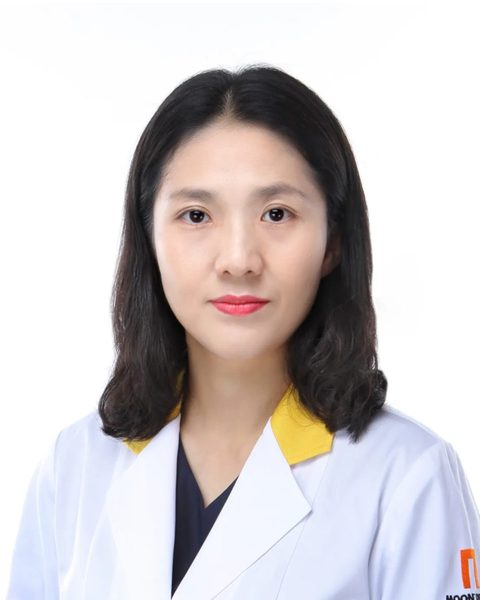
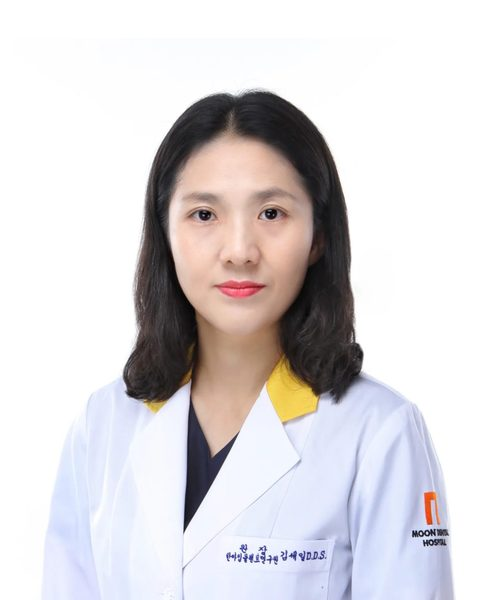
v5.1.0 · /심미치료/ 내용을 심미치료센터로 합침 (원장 지시) · 의료진 사진 얼굴 위치로 맞춤
- template-parts/section-esthetic-more.php: 예전 /심미치료/ 본문 · 고민 · 추천 대상 · FAQ 를 심미치료센터 안에
- /심미치료/ (언어 접두어 포함) → /심미치료센터/ 301 · Yoast 사이트맵에서 제외 · 링크 정리
- 의료진 v5 사진: 얼굴 인식(눈 · 입 위치)으로 크기 · 높이 통일, 의료진 상세 페이지에도 적용, 주소에 버전

diff --git a/wp-content/themes/moondental-child/template-parts/section-esthetic-more.php b/wp-content/themes/moondental-child/template-parts/section-esthetic-more.php
@@ -1,0 +1,129 @@
+<?php
+/**
+ * v5.1 · 원장 지시 · 예전 /심미치료/ 페이지 내용을 심미치료센터 안으로 (본문 · 고민 · 추천 대상 · FAQ)
+ *  page-service.php 의 같은 블록을 slug '심미치료' 로 그린다. /심미치료/ 는 /심미치료센터/ 로 301.
+ *
+ * @package moondental-child
+ */
+$slug        = '심미치료';
+$md_impl_own = false;
+$md_old_page = get_page_by_path( '심미치료' );
+$md_old_body = $md_old_page ? trim( (string) $md_old_page->post_content ) : '';
+?>
+<section class="md-section" id="esthetic-more" aria-label="심미 · 보철 진료 자세히">
+	<div class="md-container md-container--narrow">
+		<header class="md-section-head">
+			<span class="md-section-head__eyebrow">MORE</span>
+			<h2 class="md-section-head__title">심미 · 보철 진료 자세히</h2>
+		</header>
+		<article class="md-page-content">
+			<?php
+			if ( $md_old_body ) {
+				echo apply_filters( 'the_content', $md_old_body );
+			} elseif ( function_exists( 'moondental_default_service_content' ) ) {
+				echo moondental_default_service_content( $slug ); // 안전한 정적 HTML
+			}
+			?>
+		</article>
+	</div>
+</section>
+
+<?php
+/* === 환자 고민 / 솔루션 6쌍 — bdbddc.com 패턴 참고 ===
+ * v3.47 · 임플란트-센터는 제외. 위 "다른 병원에서 어렵다고 하셨나요" 6케이스와
+ *   뼈 부족·전신질환·흔들림 3개가 겹쳐 같은 말을 두 번 하게 된다.
+ *   해당 페이지에서는 그쪽 한 블록으로 합쳤다. */
+if ( function_exists( 'moondental_service_pain_points' ) && ! $md_impl_own ) {
+	$pp_map = moondental_service_pain_points();
+	if ( isset( $pp_map[ $slug ] ) && ! empty( $pp_map[ $slug ] ) ) :
+?>
+<section class="md-section md-section--surface" aria-label="환자분 고민·솔루션">
+	<div class="md-container">
+		<header class="md-section-head">
+			<span class="md-section-head__eyebrow"><?php echo esc_html( function_exists( 'md_content' ) ? md_content( 'service_pain_eyebrow', '환자분의 마음' ) : '환자분의 마음' ); ?></span>
+			<h2 class="md-section-head__title"><?php echo esc_html( function_exists( 'md_content' ) ? md_content( 'service_pain_title', '혹시 이런 고민 하고 계시죠?' ) : '혹시 이런 고민 하고 계시죠?' ); ?></h2>
+			<p class="md-section-head__lead">
+				<?php echo nl2br( esc_html( function_exists( 'md_content' ) ? md_content( 'service_pain_lead', '많은 환자분이 같은 걱정을 안고 오십니다. 문치과병원이 어떻게 답해드리는지 확인하세요.' ) : '많은 환자분이 같은 걱정을 안고 오십니다.' ) ); ?>
+			</p>
+		</header>
+		<?php
+		$pain_tag_q = function_exists( 'md_content' ) ? md_content( 'service_pain_tag_q', '고민' ) : '고민';
+		$pain_tag_a = function_exists( 'md_content' ) ? md_content( 'service_pain_tag_a', '문치과의 답' ) : '문치과의 답';
+		?>
+		<ul class="md-pain">
+			<?php foreach ( $pp_map[ $slug ] as $pp ) : ?>
+				<li class="md-pain__pair">
+					<div class="md-pain__concern">
+						<span class="md-pain__tag"><?php echo esc_html( $pain_tag_q ); ?></span>
+						<p>"<?php echo esc_html( $pp['concern'] ); ?>"</p>
+					</div>
+					<div class="md-pain__solution">
+						<span class="md-pain__tag md-pain__tag--alt"><?php echo esc_html( $pain_tag_a ); ?></span>
+						<p><?php echo esc_html( $pp['solution'] ); ?></p>
+					</div>
+				</li>
+			<?php endforeach; ?>
+		</ul>
+	</div>
+</section>
+<?php endif; }
+?>
+
+<?php /* 강점 카드 섹션은 /기술력-시설/ 페이지로 이동됨 (v3.12.0) */ ?>
+
+<?php
+/* === 이런 분께 추천합니다 === */
+if ( function_exists( 'moondental_service_ideal_candidates' ) ) {
+	$cand_map = moondental_service_ideal_candidates();
+	if ( isset( $cand_map[ $slug ] ) && ! empty( $cand_map[ $slug ] ) ) :
+?>
+<section class="md-section md-section--surface md-section--sm" aria-label="추천 대상">
+	<div class="md-container md-container--narrow">
+		<div class="md-ideal">
+			<header class="md-ideal__head">
+				<span class="md-ideal__chip"><?php echo esc_html( function_exists( 'md_content' ) ? md_content( 'service_ideal_chip', 'For You' ) : 'For You' ); ?></span>
+				<h2 class="md-ideal__title"><?php echo esc_html( function_exists( 'md_content' ) ? md_content( 'service_ideal_title', '이런 분께 추천합니다' ) : '이런 분께 추천합니다' ); ?></h2>
+				<p class="md-ideal__lead">
+					<?php echo nl2br( esc_html( function_exists( 'md_content' ) ? md_content( 'service_ideal_lead', '해당하시는 항목이 있으시면 부담 없이 상담받으세요.' ) : '해당하시는 항목이 있으시면 부담 없이 상담받으세요.' ) ); ?>
+				</p>
+			</header>
+			<ul class="md-ideal__list">
+				<?php foreach ( $cand_map[ $slug ] as $item ) : ?>
+					<li>
+						<span class="md-ideal__check" aria-hidden="true">✓</span>
+						<span><?php echo esc_html( $item ); ?></span>
+					</li>
+				<?php endforeach; ?>
+			</ul>
+			<?php /* v3.37.2 · 중간 CTA 제거 (하단 CTA 배너에 이미 있음) */ ?>
+		</div>
+	</div>
+</section>
+<?php endif; }
+?>
+
+
+<?php
+/* 해당 service slug의 자동 FAQ 출력 */
+if ( function_exists( 'moondental_get_faqs_by_service' ) ) {
+	$faqs_map = moondental_get_faqs_by_service();
+	if ( isset( $faqs_map[ $slug ] ) && ! empty( $faqs_map[ $slug ] ) ) :
+?>
+<section class="md-section md-section--sm" aria-label="자주 묻는 질문">
+	<div class="md-container md-container--narrow">
+		<header class="md-section-head">
+			<span class="md-section-head__eyebrow">FAQ</span>
+			<h2 class="md-section-head__title"><?php echo esc_html( md_content( 'svc_faq_title', '자주 묻는 질문' ) ); ?></h2>
+		</header>
+		<div class="md-faq">
+			<?php foreach ( $faqs_map[ $slug ] as $i => $item ) : ?>
+				<details class="md-faq__item"<?php echo $i === 0 ? ' open' : ''; ?>>
+					<summary><?php echo esc_html( $item['q'] ); ?></summary>
+					<p><?php echo wp_kses_post( md_autolink_addresses( $item['a'] ) ); ?></p>
+				</details>
+			<?php endforeach; ?>
+		</div>
+	</div>
+</section>
+<?php endif; }
+?>

diff --git a/wp-content/themes/moondental-child/inc/rename-esthetic.php b/wp-content/themes/moondental-child/inc/rename-esthetic.php
@@ -14,6 +14,12 @@ add_action( 'init', function () {
 	if ( is_admin() || empty( $_SERVER['REQUEST_URI'] ) ) return;
 	$uri  = (string) $_SERVER['REQUEST_URI'];
 	$path = rawurldecode( (string) parse_url( $uri, PHP_URL_PATH ) );
+	/* v5.1 · 예전 /심미치료/ 페이지도 심미치료센터로 합침 */
+	if ( preg_match( '#^/((?:en|ja|zh|vi|ru|mn)/)?심미치료/?$#u', $path, $mm ) ) {
+		$q = parse_url( $uri, PHP_URL_QUERY );
+		wp_redirect( home_url( '/' . ( $mm[1] ?? '' ) . rawurlencode( '심미치료센터' ) . '/' ) . ( $q ? '?' . $q : '' ), 301 );
+		exit;
+	}
 	if ( strpos( $path, '스마일디자인센터' ) === false ) return;
 	if ( ! preg_match( '#^/((?:en|ja|zh|vi|ru|mn)/)?스마일디자인센터(/.*)?$#u', $path, $m ) ) return;
 	$rest = ( isset( $m[2] ) && $m[2] !== '' ) ? $m[2] : '/';
@@ -95,3 +101,10 @@ add_action( 'init', function () {
 	}
 	update_option( 'md_rename_esthetic_v424', 'done' );
 }, 6 );
+
+/* v5.1 · 합친 /심미치료/ 페이지는 사이트맵에서 뺀다 (주소는 심미치료센터로 301) */
+add_filter( 'wpseo_exclude_from_sitemap_by_post_ids', function ( $ids ) {
+	$p = get_page_by_path( '심미치료' );
+	if ( $p ) $ids[] = (int) $p->ID;
+	return $ids;
+} );

diff --git a/wp-content/themes/moondental-child/page-templates/page-doctor-single.php b/wp-content/themes/moondental-child/page-templates/page-doctor-single.php
@@ -88,6 +88,10 @@ $photo_style = sprintf(
 	esc_attr( number_format( $photo_ty,   1 ) ),
 	esc_attr( number_format( $photo_zoom, 2 ) )
 );
+if ( function_exists( 'md_v5' ) && md_v5() && false !== strpos( md_v5_doctor_photo( $doctor['photo'] ?? '' ), '/doctors/v5/' ) ) { /* v5.0 · 얼굴 크기 맞춘 사진 */
+	$photo_url   = md_v5_doctor_photo( $doctor['photo'] ?? '' );
+	$photo_style = 'object-position: center top;';
+}
 
 /* 다른 의료진 — 본인을 제외한 전체 */
 $all_doctors = function_exists( 'moondental_get_team_with_customizer' )
@@ -247,6 +251,7 @@ foreach ( $all_doctors as $m ) {
 					esc_attr( number_format( $other_ty,   1 ) ),
 					esc_attr( number_format( $other_zoom, 2 ) )
 				);
+				if ( function_exists( 'md_v5' ) && md_v5() && false !== strpos( md_v5_doctor_photo( $other['photo'] ?? '' ), '/doctors/v5/' ) ) { $other_photo = md_v5_doctor_photo( $other['photo'] ?? '' ); $other_style = 'object-position: center top;'; }
 			?>
 				<a class="md-docsingle-other" href="<?php echo esc_url( $other_url ); ?>">
 					<div class="md-docsingle-other__photo">

diff --git a/wp-content/themes/moondental-child/functions.php b/wp-content/themes/moondental-child/functions.php
@@ -13,7 +13,7 @@ if ( ! defined( 'ABSPATH' ) ) {
 	exit;
 }
 
-define( 'MOONDENTAL_VERSION', '5.0.0' );
+define( 'MOONDENTAL_VERSION', '5.1.0' );
 
 /* v3.43.2 · 다국어 URL 접두어 · Polylang 리다이렉트 루프 회피
  *
@@ -5059,7 +5059,7 @@ function moondental_get_services() {
 			'desc'  => '천안·아산 매복 사랑니까지 — CBCT 3D 정밀 진단으로 구강악안면외과 전문 의료진이 안전하게 발치합니다.',
 		),
 		array(
-			'slug'  => '심미치료',
+			'slug'  => '심미치료센터', /* v5.1 · /심미치료/ 는 심미치료센터로 합침 */
 			'title' => '천안·아산 라미네이트·미백',
 			'icon'  => 'icon:aesthetic',
 			'desc'  => '천안·아산 라미네이트·치아미백·올세라믹 — 최소 삭제 보존적 접근으로 자연스러운 미소를 디자인합니다.',

diff --git a/wp-content/themes/moondental-child/inc/design-v5.php b/wp-content/themes/moondental-child/inc/design-v5.php
@@ -110,7 +110,7 @@ add_filter( 'body_class', function ( $c ) {
 function md_v5_doctor_photo( $filename ) {
 	$base = basename( (string) $filename );
 	if ( $base && file_exists( MOONDENTAL_DIR . '/assets/images/doctors/v5/' . $base ) ) {
-		return MOONDENTAL_URI . '/assets/images/doctors/v5/' . $base;
+		return MOONDENTAL_URI . '/assets/images/doctors/v5/' . $base . '?v=' . filemtime( MOONDENTAL_DIR . '/assets/images/doctors/v5/' . $base );
 	}
 	return function_exists( 'moondental_doctor_photo_url' ) ? moondental_doctor_photo_url( $filename ) : '';
 }

diff --git a/wp-content/themes/moondental-child/page-templates/page-smile-design.php b/wp-content/themes/moondental-child/page-templates/page-smile-design.php
@@ -223,6 +223,8 @@ $nav_items = $parse_nav( md_content( 'smile_nav_items', '' ) );
 </section>
 
 <?php /* v3.44.212 · 심미치료센터 종합안내서 (라미네이트) */ ?>
+<?php get_template_part( 'template-parts/section', 'esthetic-more' ); /* v5.1 · 예전 /심미치료/ 내용 */ ?>
+
 <?php get_template_part( 'template-parts/section', 'guide-cta', array( 'slug' => 'laminate' ) ); ?>
 
 <?php get_template_part( 'template-parts/section', 'cta' ); ?>

diff --git a/wp-content/themes/moondental-child/inc/strengths.php b/wp-content/themes/moondental-child/inc/strengths.php
@@ -281,7 +281,7 @@ function moondental_get_strengths() {
 </ol>',
 			'related' => array(
 				array( 'label' => '임플란트 센터', 'url' => $home . '임플란트-센터/' ),
-				array( 'label' => '심미치료',     'url' => $home . '심미치료/' ),
+				array( 'label' => '심미치료',     'url' => $home . '심미치료센터/' ),
 			),
 		),
 
